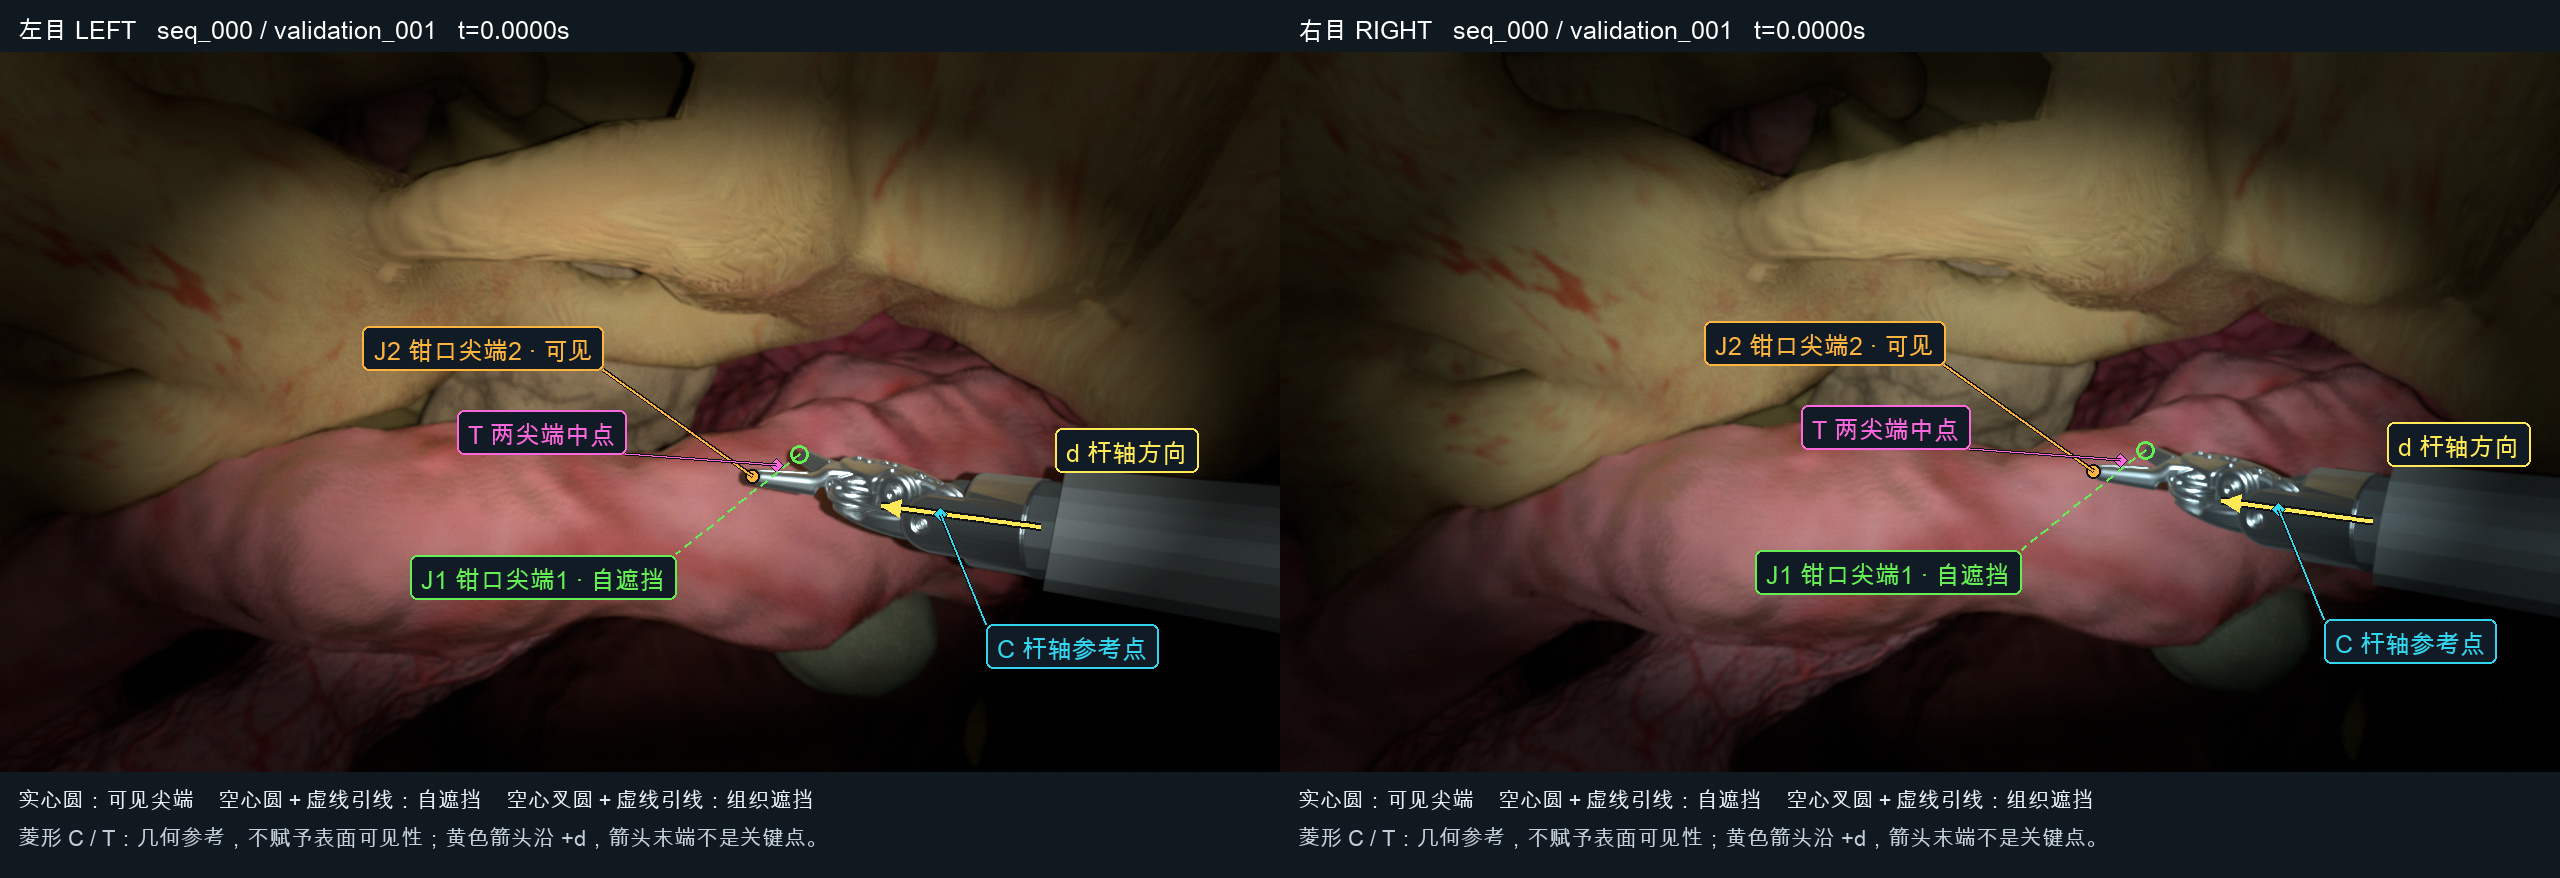
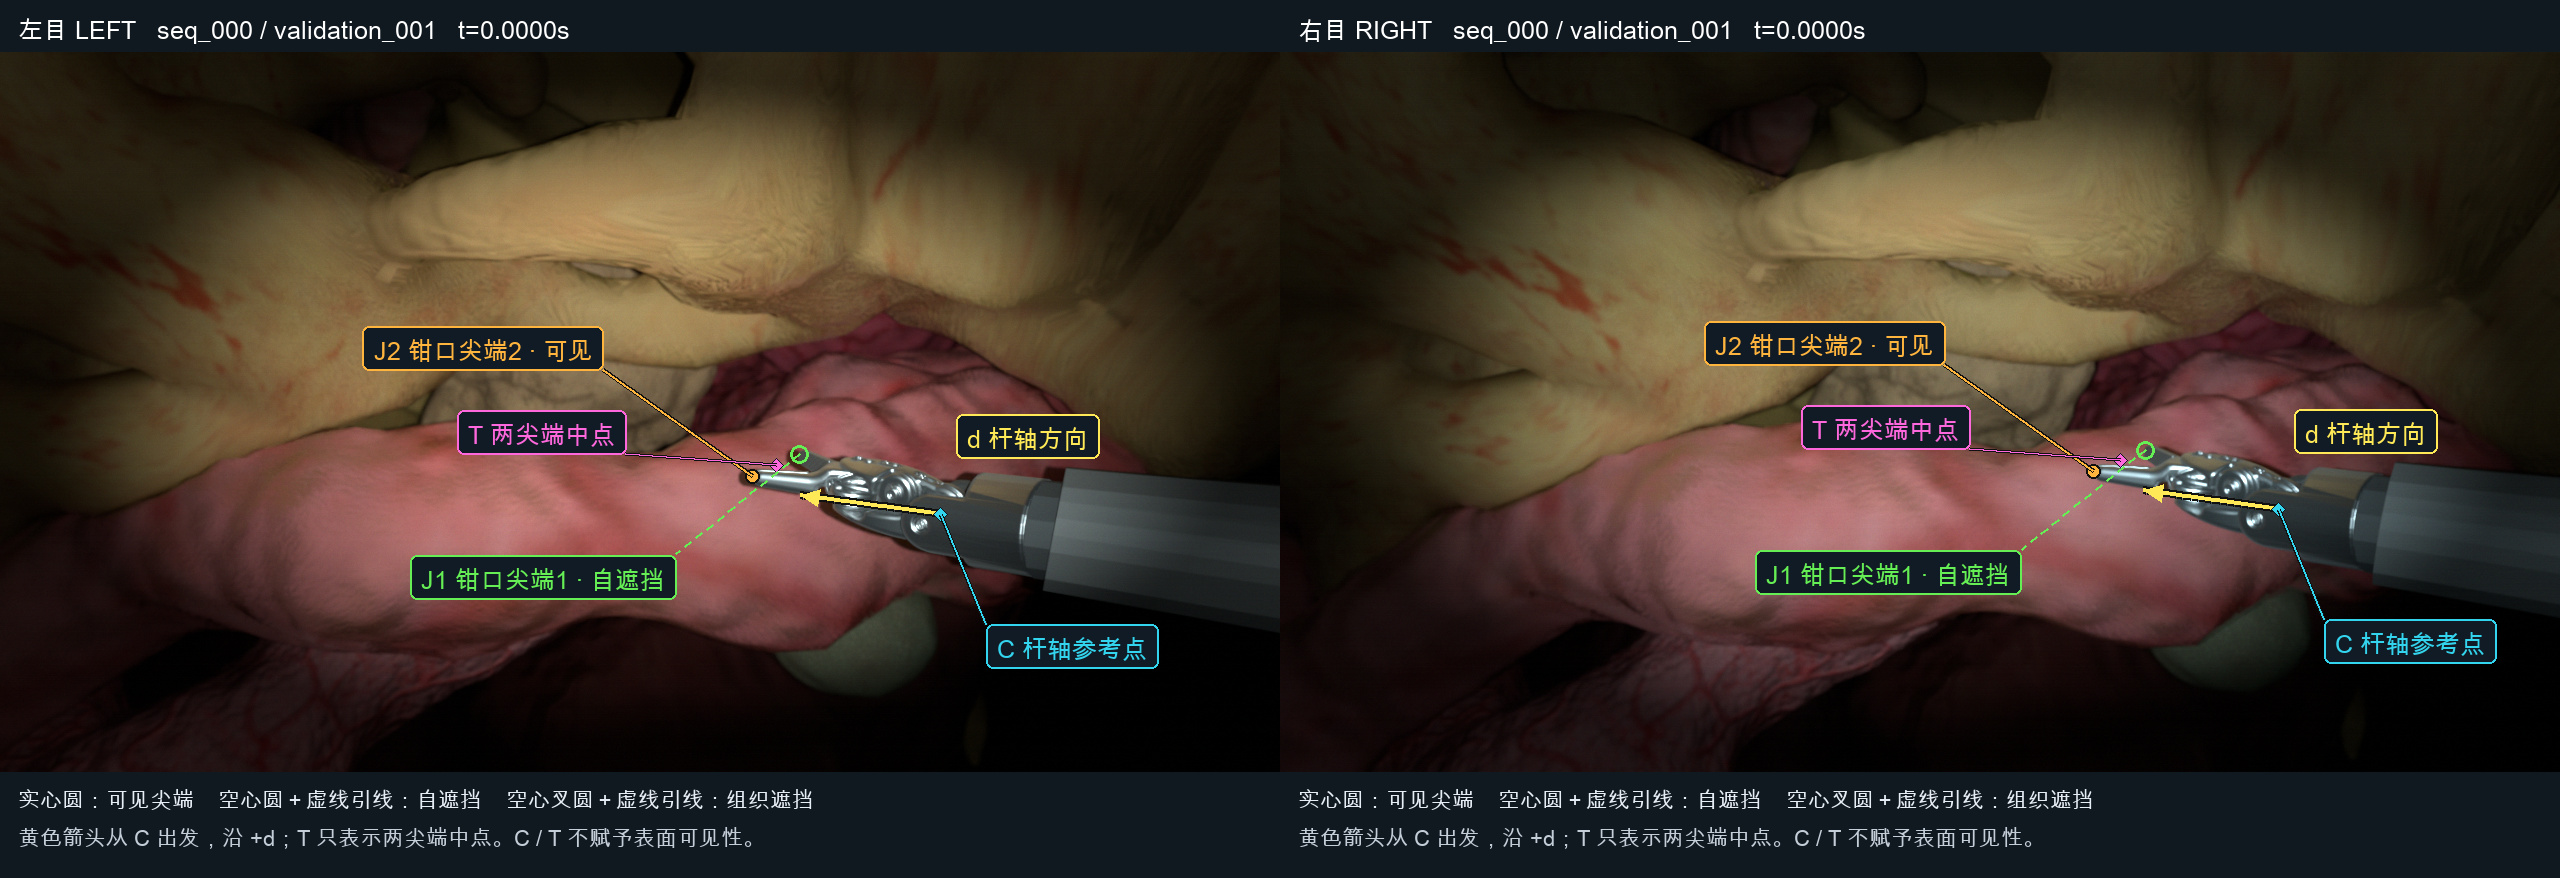
fix: start shaft direction arrows at C
- Anchor each shaft arrow at C and draw only along positive d.
- Keep T as the named midpoint of the two jaw tips.
- Refresh existing stereo previews without simulation or rendering.
- Preserve all 224 original image and truth files.

diff --git a/CameraImagingConfig/src/TemporalStereo_v2/tools/reannotate.py b/CameraImagingConfig/src/TemporalStereo_v2/tools/reannotate.py
@@ -51,8 +51,9 @@ def panel(image, record, eye, font_path):
     points = {"C": g['shaft_reference_pixel'], "T": g['tip_pixel'], "J1": g['jaw_tip_pixels'][0], "J2": g['jaw_tip_pixels'][1]}
     points = {k: (v[0], v[1]+header) for k, v in points.items()}
     C, direction = g['shaft_reference_position_mm'], g['shaft_direction_unit']
-    # Positive d points toward the distal instrument. Arrow tips are not landmarks.
-    curve = [project([C[j]+(-9+15*i/60)*direction[j] for j in range(3)], e['K'], e['D']) for i in range(61)]
+    # Start exactly at C; retain a 15 mm display length along positive d.
+    # T is only a named midpoint marker. The arrow tip is not a landmark.
+    curve = [project([C[j]+(15*i/60)*direction[j] for j in range(3)], e['K'], e['D']) for i in range(61)]
     curve = [(x, y+header) for x, y in curve]
     draw.line(curve, fill="#111111", width=8)
     draw.line(curve, fill=COLORS['d'], width=4)
@@ -114,7 +115,7 @@ def panel(image, record, eye, font_path):
     callout('d', 'd 杆轴方向', curve[0], (15, -100), leader=False)
     y = header+h+12
     draw.text((18,y), '实心圆：可见尖端    空心圆＋虚线引线：自遮挡    空心叉圆＋虚线引线：组织遮挡', font=small, fill="#e6edf4")
-    draw.text((18,y+38), '菱形 C / T：几何参考，不赋予表面可见性；黄色箭头沿 +d，箭头末端不是关键点。', font=small, fill="#c4ced8")
+    draw.text((18,y+38), '黄色箭头从 C 出发，沿 +d；T 只表示两尖端中点。C / T 不赋予表面可见性。', font=small, fill="#c4ced8")
     return canvas
 
 
@@ -150,7 +151,8 @@ def main():
     if original != after:
         raise RuntimeError('Saved source data changed')
     report = {'renderer_invoked': False, 'source_files_unchanged': True, 'source_file_count': len(original),
-              'preview_pairs': len(files), 'arrow_mm_relative_to_C': [-9, 6], 'arrow_direction': '+d',
+              'preview_pairs': len(files), 'arrow_mm_relative_to_C': [0, 15], 'arrow_start': 'C', 'arrow_direction': '+d',
+              'T_display': 'named midpoint marker only; no direction arrow',
               'annotation_code_sha256': sha(Path(__file__)), 'font_sha256': sha(a.font), 'files': files}
     (a.output/'annotation_report.json').write_text(json.dumps(report, indent=2)+'\n')
     print(f"Annotated {len(files)} existing pairs; all {len(original)} source files unchanged; zero renders.")

diff --git a/CameraImagingConfig/src/TemporalStereo_v2/validation_evidence/named_previews/README.md b/CameraImagingConfig/src/TemporalStereo_v2/validation_evidence/named_previews/README.md
@@ -2,7 +2,7 @@
 
 These five examples were rebuilt from the saved RGB PNGs and per-eye ground truth with `tools/reannotate.py`. No simulator or renderer was started. All 32 existing pairs were reannotated in the review output; five representative pairs are backed up here. `annotation_report.json` records the 32 output hashes and confirms that all 224 source data files remained unchanged.
 
-The yellow arrow follows positive shaft direction d, through C, from C−9d to C+6d in millimeters. Its endpoint is a drawing limit, not an anatomical landmark. C (shaft reference) and T (virtual tip midpoint) are diamonds and carry no surface-visibility assertion. J1/J2 name the two actual jaw endpoints. Filled circles mean visible; hollow circles and dashed leaders mean self-occluded; hollow crossed circles and dashed leaders mean tissue-occluded. Closed-jaw endpoint projections overlap because the original coordinates are retained.
+The yellow arrow starts exactly at C and follows positive shaft direction d to C+15d in millimeters. The 15 mm length and endpoint are drawing choices, not anatomical landmarks. T is only marked as the midpoint of the two physical tips, with no direction arrow. C (shaft reference) and T (virtual tip midpoint) are diamonds and carry no surface-visibility assertion. J1/J2 name the two actual jaw endpoints. Filled circles mean visible; hollow circles and dashed leaders mean self-occluded; hollow crossed circles and dashed leaders mean tissue-occluded. Closed-jaw endpoint projections overlap because the original coordinates are retained.
 
 - [Closed jaws](seq_000_validation_000.jpg)
 - [Maximum opening](seq_000_validation_001.jpg)

diff --git a/CameraImagingConfig/src/TemporalStereo_v2/README.md b/CameraImagingConfig/src/TemporalStereo_v2/README.md
@@ -96,7 +96,7 @@ The [completed laptop validation report](validation_evidence/README.md) records 
 
 ## Offline named annotations
 
-`tools/reannotate.py` rebuilds previews using only saved RGB PNGs and label JSON files; it never starts Isaac Sim. It requires Pillow and a Chinese-capable font. Saved images and labels remain unchanged and are checked before/after processing. Output names C, T, J1 and J2 explicitly, uses a positive-d shaft arrow (from C−9d to C+6d, millimeters), and distinguishes visible endpoints, self-occlusion and tissue occlusion. C/T use reference-point diamonds without a surface-visibility claim. The arrow endpoint is not a physical landmark.
+`tools/reannotate.py` rebuilds previews using only saved RGB PNGs and label JSON files; it never starts Isaac Sim. It requires Pillow and a Chinese-capable font. Saved images and labels remain unchanged and are checked before/after processing. Output names C, T, J1 and J2 explicitly, uses a positive-d shaft arrow starting exactly at C and ending at C+15d (millimeters), and distinguishes visible endpoints, self-occlusion and tissue occlusion. The 15 mm length is solely a display choice. T is only named as the midpoint of the two physical tips, with no direction arrow. C/T use reference-point diamonds without a surface-visibility claim. The arrow endpoint is not a physical landmark.
 
 ```bash
 python3 tools/reannotate.py --run /path/to/existing/run \
